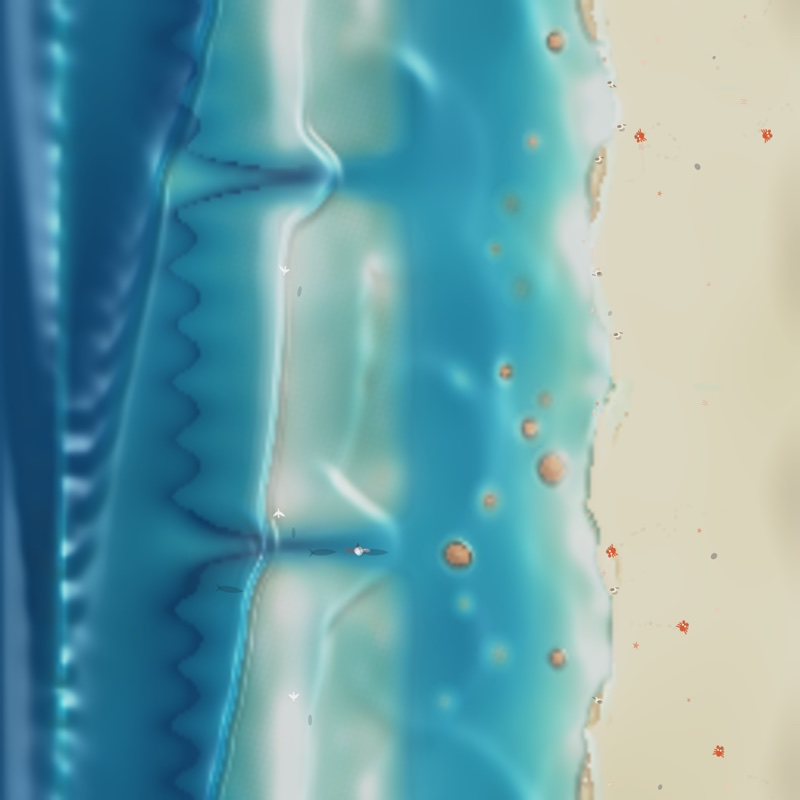
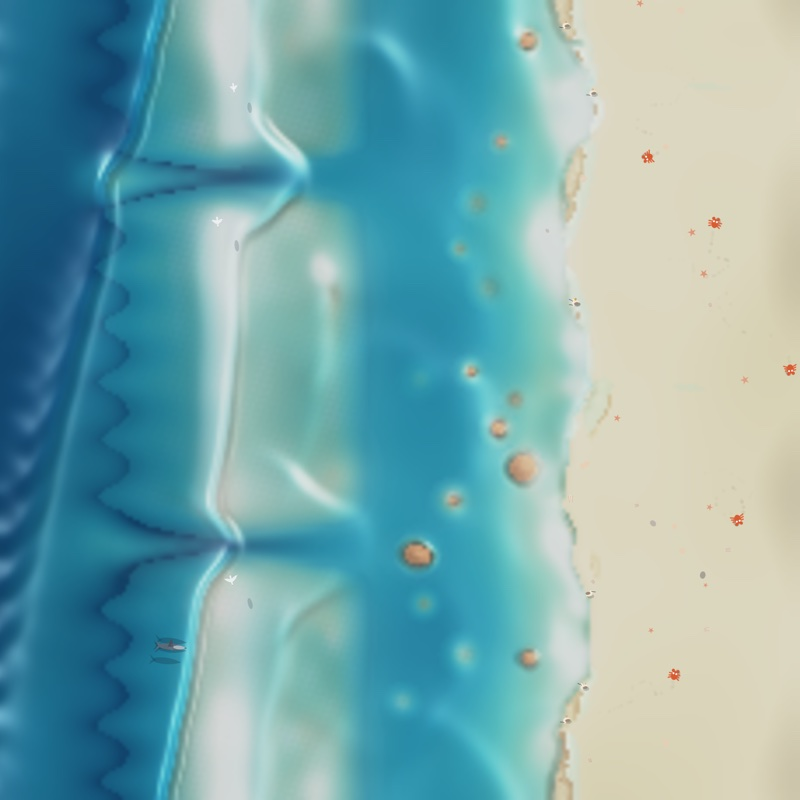
wave-lab: the swell arrives from off screen
Two fixes visible on the wall.

The wave generator was in shot. It is an internal source that radiates
both ways, and it sat inside the frame with the sponge that absorbs its
seaward half, which put a hard vertical seam a tenth of the way across
the picture with flat water outboard of it — the swell appeared to start
at a line rather than to arrive from somewhere. The basin is now wider
than the picture: the generator is simulated off the left edge and never
drawn.

And a band of bright scallops along the outer break, which turned out to
be the breaking limiter's one-cell zig-zag in the surface amplified by
the two shading terms that read the surface's shape. Both now use a
two-cell cross-shore stencil, which has that mode exactly in its null
space and leaves the swell untouched.

Source: https://github.com/isaackrallison/Wave-Simulation @ 9dfd16a
Tiles reshot; the framing changed with the window.

diff --git a/experiences/wave-lab/web/src/main.js b/experiences/wave-lab/web/src/main.js
@@ -1,4 +1,4 @@
-import { Sim, NX, NY, SCALE } from './sim.js';
+import { Sim, NX, NY, SCALE, VIEW_X0, VIEW_NX } from './sim.js';
 import { Renderer, THEMES } from './render.js';
 import { World, FLOATER_KINDS, PROP_KINDS } from './entities.js';
 import { Surf } from './sound.js';
@@ -50,8 +50,10 @@ const pointers = new Map();
 
 function toGrid(ev) {
   const rect = canvas.getBoundingClientRect();
+  // The picture starts at VIEW_X0, not at column 0: the wave generator is
+  // simulated off the left edge of the frame.
   return [
-    ((ev.clientX - rect.left) / rect.width) * NX,
+    VIEW_X0 + ((ev.clientX - rect.left) / rect.width) * VIEW_NX,
     ((ev.clientY - rect.top) / rect.height) * NY,
   ];
 }
@@ -515,7 +517,9 @@ function updateAttract(dt, now) {
   p.wind = Math.random() * 0.8;
   syncSliders();
   if (Math.random() < 0.35) {
-    world.addFloater((20 + Math.random() * 40) * SCALE, Math.random() * NY,
+    // Just inside the frame, so a toy drifts in from the deep rather than
+    // popping into existence somewhere the camera cannot see.
+    world.addFloater(VIEW_X0 + (4 + Math.random() * 40) * SCALE, Math.random() * NY,
       FLOATER_KINDS[(Math.random() * FLOATER_KINDS.length) | 0]);
   }
   if (Math.random() < 0.25) {
@@ -542,7 +546,7 @@ function drawCursor(sx, sy) {
   ctx.lineWidth = 1.2;
   ctx.setLineDash([5, 5]);
   ctx.beginPath();
-  ctx.ellipse(hover[0] * sx, hover[1] * sy, brush * sx, brush * sy, 0, 0, Math.PI * 2);
+  ctx.ellipse((hover[0] - VIEW_X0) * sx, hover[1] * sy, brush * sx, brush * sy, 0, 0, Math.PI * 2);
   ctx.stroke();
   ctx.restore();
 }
@@ -555,7 +559,7 @@ function drawFlow(sx, sy) {
   ctx.lineWidth = 1.1;
   ctx.lineCap = 'round';
   for (let j = step >> 1; j < NY; j += step) {
-    for (let i = step >> 1; i < NX; i += step) {
+    for (let i = VIEW_X0 + (step >> 1); i < NX; i += step) {
       const k = j * NX + i;
       if (sim.eta[k] - sim.bed[k] < 0.15) continue;
       const u = sim.u[k], v = sim.v[k];
@@ -564,8 +568,8 @@ function drawFlow(sx, sy) {
       const a = Math.min(0.72, (sp / SCALE) * 0.34);
       const len = Math.min(step * 0.9, (sp / SCALE) * 2.2);
       const nx = u / sp, ny = v / sp;
-      const x0 = i * sx, y0 = j * sy;
-      const x1 = (i + nx * len) * sx, y1 = (j + ny * len) * sy;
+      const x0 = (i - VIEW_X0) * sx, y0 = j * sy;
+      const x1 = (i - VIEW_X0 + nx * len) * sx, y1 = (j + ny * len) * sy;
       ctx.strokeStyle = `rgba(255,255,255,${a})`;
       ctx.beginPath();
       ctx.moveTo(x0, y0);
@@ -599,7 +603,7 @@ function updateReport() {
   for (let j = 2; j < NY; j += rowStep) {
     const row = j * NX;
     let shore = 0, wettest = 0, firstFoam = -1;
-    for (let i = Math.round(20 * SCALE); i < NX; i++) {
+    for (let i = VIEW_X0; i < NX; i++) {
       const k = row + i;
       const still = sim.sea - sim.bed[k];
       if (still > 0.1 && still < 3.0) {
@@ -709,8 +713,12 @@ function frame(now) {
   const theme = THEMES[themeName];
   renderer.blit(ctx, W, H, theme, sim.time);
 
-  const sx = W / NX, sy = H / NY;
+  // sx is pixels per cell across the VISIBLE window, and the translate slides
+  // the hidden offshore columns off the left of the screen. Everything drawn in
+  // grid units goes inside this transform.
+  const sx = W / VIEW_NX, sy = H / NY;
   ctx.save();
+  ctx.translate(-VIEW_X0 * sx, 0);
   ctx.scale(sx / sy, 1);          // entities are drawn in grid units, y-scaled
   world.draw(ctx, sy, themeName, sim.time);
   // Structures last: a pier deck is above the water and above everything on it.
@@ -739,7 +747,9 @@ function frame(now) {
 requestAnimationFrame(frame);
 
 // A couple of toys and umbrellas so the beach never opens empty.
-for (let i = 0; i < 3; i++) world.addFloater(30 + Math.random() * 60, Math.random() * NY);
+for (let i = 0; i < 3; i++) {
+  world.addFloater(VIEW_X0 + (6 + Math.random() * 55) * SCALE, Math.random() * NY);
+}
 for (let i = 0; i < 4; i++) world.addProp(NX * (0.84 + Math.random() * 0.1), Math.random() * NY);
 
 // A handle for the headless scripts. The page is otherwise entirely
@@ -780,9 +790,11 @@ connectFootron({
   onRogue: rogueWave,
   onLesson: runLesson,
   onTouch: (fx, fy, which) => {
-    // Fractions of the wall, so the phone need not know the grid — which is
-    // picked at load from the display and differs between machines.
-    const gx = fx * NX, gy = fy * NY;
+    // Fractions of the VISIBLE wall, so the phone need not know the grid — which
+    // is picked at load from the display and differs between machines — and a
+    // finger at the left edge of the pad lands at the left edge of the picture,
+    // not in the hidden offshore strip.
+    const gx = VIEW_X0 + fx * VIEW_NX, gy = fy * NY;
     const previous = tool;
     tool = which;
     applyOnce(gx, gy);

diff --git a/experiences/wave-lab/web/src/render.js b/experiences/wave-lab/web/src/render.js
@@ -11,7 +11,7 @@
 // top of the water rather than as part of it, and the soft pass is a better
 // picture on its own.
 
-import { NX, NY } from './sim.js';
+import { NX, NY, VIEW_X0, VIEW_NX } from './sim.js';
 
 export const THEMES = {
   day: {
@@ -209,6 +209,9 @@ export class Renderer {
         const H = e - b;
         const il = row + (i > 0 ? i - 1 : 0);
         const ir = row + (i < NX - 1 ? i + 1 : NX - 1);
+        // Two-cell stencil, cross-shore only. See the note in the water branch.
+        const il2 = row + (i > 1 ? i - 2 : 0);
+        const ir2 = row + (i < NX - 2 ? i + 2 : NX - 1);
 
         // drifting cloud shadow, soft and slow
         const clA = w[cAc + i] * cAcs - w[cA + i] * cAs;
@@ -221,15 +224,36 @@ export class Renderer {
         let r, g, bb;
         if (H > 0.015) {
           // ---------------------------------------------------------- water
+          // The breaking limiter clips the crest cell by cell, which leaves a
+          // one-cell zig-zag in the surface across the surf zone. Measured, it
+          // is worth up to 0.4 in the second difference of eta — invisible at
+          // simulation resolution, but this buffer is upscaled about nine times
+          // onto a wall, and the two terms that read the surface's SHAPE rather
+          // than its height both amplify precisely that wavelength: the
+          // specular normal, and the Laplacian the caustics come from. The
+          // result was a band of bright scallops along the outer break.
+          //
+          // So both take a two-cell stencil in the cross-shore direction. A
+          // centred difference over +/-2 has the one-cell mode exactly in its
+          // null space — for an alternating signal f(i+2) and f(i-2) are equal,
+          // so the difference is zero, and the second difference cancels too —
+          // while the swell, at sixty-odd cells to a wavelength, is unchanged
+          // to well under a percent. It is a notch filter tuned to the
+          // artefact, not a blur, which is why it costs no softness. Alongshore
+          // is left on the one-cell stencil: it was measured clean, the limiter
+          // being a cross-shore effect.
           const RELIEF = 6.2;
-          const nx = -(sm[ir] - sm[il]) * 0.5 * RELIEF;
+          const nx = -(sm[ir2] - sm[il2]) * 0.25 * RELIEF;
           const ny = -(sm[rowp + i] - sm[rowm + i]) * 0.5 * RELIEF;
           const inv = 1 / Math.sqrt(nx * nx + ny * ny + 1);
           let dif = (nx * LX + ny * LY + LZ) * inv;
           if (dif < 0) dif = 0;
           const specIdx = (dif * POW_N) | 0;
           const spec = SPEC[specIdx] * 150 * glint * (H > 0.5 ? 1 : H * 2);
-          const lap = sm[il] + sm[ir] + sm[rowm + i] + sm[rowp + i] - 4 * sm[c];
+          // /4 on the x half keeps it the same physical second derivative, so
+          // the caustics keep the strength they were tuned to.
+          const lap = (sm[il2] + sm[ir2] - 2 * sm[c]) * 0.25
+                    + (sm[rowm + i] + sm[rowp + i] - 2 * sm[c]);
 
           const hIdx = H >= EXP_MAX ? EXP_N : (H * EXP_SCALE) | 0;
           // Silt in suspension does two things: it colours the water, and it
@@ -416,6 +440,9 @@ export class Renderer {
     else this.rasterise(theme, time);
     ctx.imageSmoothingEnabled = true;
     ctx.imageSmoothingQuality = 'high';
-    ctx.drawImage(this.buf, 0, 0, NX, NY, 0, 0, w, h);
+    // Only the visible window. The columns left of VIEW_X0 hold the wave
+    // generator and its sponge, and they are rasterised — the loop is not worth
+    // splitting for a tenth of it — but never shown.
+    ctx.drawImage(this.buf, VIEW_X0, 0, VIEW_NX, NY, 0, 0, w, h);
   }
 }

diff --git a/experiences/wave-lab/web/src/entities.js b/experiences/wave-lab/web/src/entities.js
@@ -2,7 +2,7 @@
 // crabs that bolt from the swash, gulls overhead, and beach furniture that the
 // tide will eventually steal.
 
-import { NX, NY, SCALE } from './sim.js';
+import { NX, NY, SCALE, VIEW_X0 } from './sim.js';
 
 const TAU = Math.PI * 2;
 // The solver advances ~12 sim-time units per wall-clock second at speed 1.
@@ -96,7 +96,7 @@ export class World {
   //  * It loses height into a dive and climbs back out flapping hard.
   addGull() {
     this.gulls.push({
-      x: rand(0, NX), y: rand(0, NY), a: rand(0, TAU),
+      x: rand(VIEW_X0, NX), y: rand(0, NY), a: rand(0, TAU),
       sp: rand(11, 15) * S,
       turn: 0, turnGoal: 0, turnT: rand(0, 3), bank: 0,
       wing: rand(0, TAU), flap: 1, burst: 0, glide: rand(0.4, 2.6),
@@ -271,7 +271,7 @@ export class World {
       const vmax = 16 * S;
       if (spd > vmax) { dph.vx *= vmax / spd; dph.vy *= vmax / spd; }
       dph.x += dph.vx * rs; dph.y = wrapY(dph.y + dph.vy * rs);
-      if (dph.x < NX * 0.06) { dph.x = NX * 0.06; dph.vx = Math.abs(dph.vx); }
+      if (dph.x < VIEW_X0 + 4 * S) { dph.x = VIEW_X0 + 4 * S; dph.vx = Math.abs(dph.vx); }
       dph.phase += rs * (1.6 + spd / (7 * S));
       const wasUp = dph.up;
       dph.up = Math.sin(dph.phase) > 0.55 ? 1 : 0;   // surfacing arc
@@ -288,7 +288,7 @@ export class World {
     if (this.surfT <= 0) {
       this.surfT = 0.4;
       const step = Math.max(4, Math.round(NY / 24));
-      const from = Math.round(NX * 0.2);
+      const from = VIEW_X0;
       let sum = 0, n = 0;
       for (let j = 0; j < NY; j += step) {
         const row = j * NX;
@@ -361,8 +361,12 @@ export class World {
 
       g.x += Math.cos(g.a) * g.sp * rs;
       g.y = wrapY(g.y + Math.sin(g.a) * g.sp * rs);
-      if (g.x < -6 * S) g.x = NX + 6 * S;
-      if (g.x > NX + 6 * S) g.x = -6 * S;
+      // Wrap at the edges of the PICTURE, not of the basin. Wrapping at the
+      // basin meant a bird left the frame and reappeared several seconds later
+      // after crossing the hidden offshore strip, which reads as one having
+      // been lost rather than as one having flown past.
+      if (g.x < VIEW_X0 - 6 * S) g.x = NX + 6 * S;
+      if (g.x > NX + 6 * S) g.x = VIEW_X0 - 6 * S;
       if (g.dive > 0 && g.dive < 0.12 && sim.depthAt(g.x, g.y) > 0.3) {
         this.addSplash(g.x, g.y, 8, 0.8);
         sim.splash(g.x, g.y, 0.35, 3 * S);

diff --git a/experiences/wave-lab/web/src/sim.js b/experiences/wave-lab/web/src/sim.js
@@ -120,6 +120,26 @@ const DISP_C = SCALE / H_PER_CELL;            // height units -> cells
 const DISP_CAP = 0.30;
 const SPONGE = Math.round(16 * (NX / 320));   // absorbing band at the ocean edge
 const SRCX = Math.round(24 * (NX / 320));     // internal wave generator column
+const SRC_HALF = Math.max(3, Math.round(5 * SCALE));   // half-width of the generator
+
+// --- the visible window ---------------------------------------------------
+//
+// The wave generator and the sponge that absorbs its seaward half are
+// machinery, not scenery. They used to sit inside the frame, which put a hard
+// vertical seam about a tenth of the way across the screen with strangely flat
+// water outboard of it — the swell appeared to START at a line rather than to
+// arrive from somewhere, which is the one thing a beach must never look like.
+//
+// So the basin is wider than the picture. Everything left of VIEW_X0 is
+// simulated exactly as before and simply never drawn: the generator radiates
+// both ways as an internal source should, the seaward half dies in the sponge,
+// and on screen the swell enters from off the left edge already formed.
+//
+// This is the ONE place that knows the offset. Everything that maps between the
+// screen and the grid — the tools, the flow arrows, the cross-section, the
+// entity layer, the phone's touch pad — goes through VIEW_X0 and VIEW_NX.
+export const VIEW_X0 = SRCX + SRC_HALF + Math.max(4, Math.round(5 * SCALE));
+export const VIEW_NX = NX - VIEW_X0;
 export const PRESETS = ['classic', 'sandbar', 'coves', 'reef', 'pier', 'jetty', 'flat'];
 
 export class Sim {
@@ -223,7 +243,7 @@ export class Sim {
     })();
     this.srcW = new Float32Array(NX);   // wave-generator column weights
     let sw = 0;
-    const srcHalf = Math.max(3, Math.round(5 * SCALE));
+    const srcHalf = SRC_HALF;
     const srcSigma = 3.0 * SCALE;
     for (let i = SRCX - srcHalf; i <= SRCX + srcHalf; i++) {
       const w = Math.exp(-Math.pow((i - SRCX) / srcSigma, 2));

diff --git a/experiences/wave-lab/web/src/section.js b/experiences/wave-lab/web/src/section.js
@@ -6,7 +6,7 @@
 // become legible: the wave visibly shortens and steepens as the bed rises, then
 // breaks and runs up as a thin wedge.
 
-import { NX, NY, SCALE } from './sim.js';
+import { NX, NY, SCALE, VIEW_X0 } from './sim.js';
 
 export class Section {
   constructor(canvas) {
@@ -39,8 +39,10 @@ export class Section {
     ctx.clearRect(0, 0, w, h);
 
     const row = this.row * NX;
-    // Show the interesting part: from just outside the wave generator to the dune.
-    const i0 = Math.round(30 * SCALE), i1 = NX;
+    // The same stretch the picture above it shows, so a feature in one is at the
+    // same place along the other. Left of VIEW_X0 is the wave generator, which
+    // is not part of the beach.
+    const i0 = VIEW_X0, i1 = NX;
     const span = i1 - i0;
     // vertical range, in world units, with the sea level a fixed fraction down
     const TOP = 3.4, BOT = -7.0;

diff --git a/experiences/wave-lab/web/src/footron.js b/experiences/wave-lab/web/src/footron.js
@@ -17,6 +17,8 @@
 //   { type: "lesson", value: "shoal"|"rip"|…  }        a demonstration
 //   { type: "touch", x: <0…1>, y: <0…1>, tool: "splash"|"toy"|"prop"|"river"
 //                                              |"raise"|"dig"|"smooth" }
+//                     x and y are fractions of the VISIBLE wall, not of the
+//                     simulated basin — the basin extends off the left edge.
 //   { type: "view",  key: "flow"|"depth"|"section"|"pause", value: <bool> }
 //   { type: "reset" }                                  rebuild the beach
 //   { type: "calm" }                                   flatten the sea
